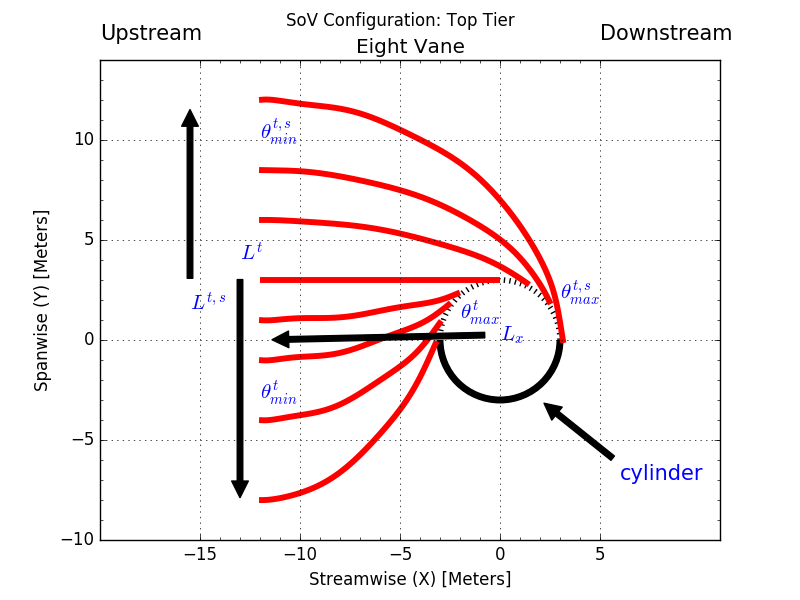
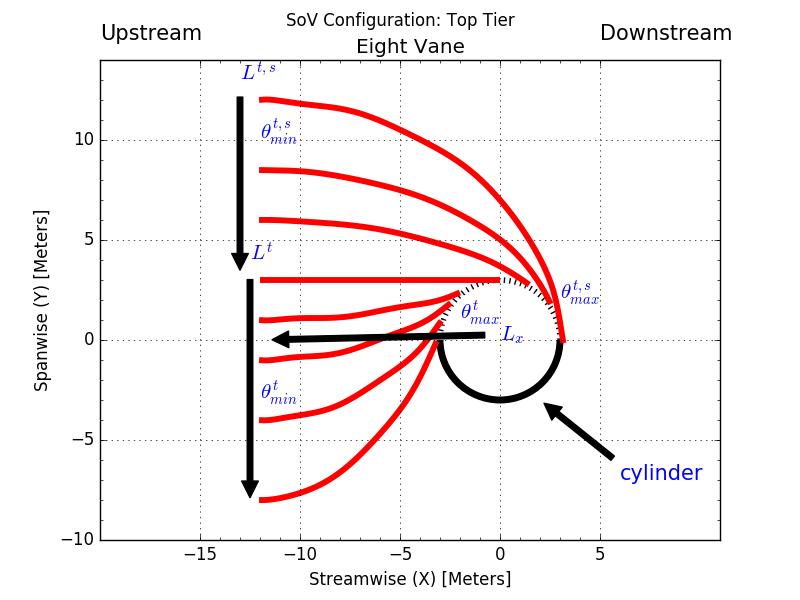
sending to dr moser

Changed region(s): [[0.25, 0.15, 0.3438, 0.84], [0.2188, 0.18, 0.25, 0.48], [0.3125, 0.09, 0.3438, 0.12]]

diff --git a/disputatio/routines/vanes/combo.py b/disputatio/routines/vanes/combo.py
@@ -339,9 +339,9 @@ def main():
     ax.annotate(r'cylinder', xy=(2,-3), xytext=(6,-7),
                 arrowprops=dict(facecolor='black', shrink=0.05),color='blue',fontsize=15)
 
-    ax.annotate(r'$L^{t}$', xy=(-13,-8.5), xytext=(-13, 4.0),
+    ax.annotate(r'$L^{t}$', xy=(-12.5,-8.5), xytext=(-12.5, 4.0),
                 arrowprops=dict(facecolor='black', shrink=0.05),color='blue',fontsize=15)
-    ax.annotate(r'$L^{t,s}$', xy=(-15.5,12), xytext=(-15.5, 1.5),
+    ax.annotate(r'$L^{t,s}$', xy=(-13, 3), xytext=(-13,13),
                 arrowprops=dict(facecolor='black', shrink=0.05),color='blue',fontsize=15)
     
 
